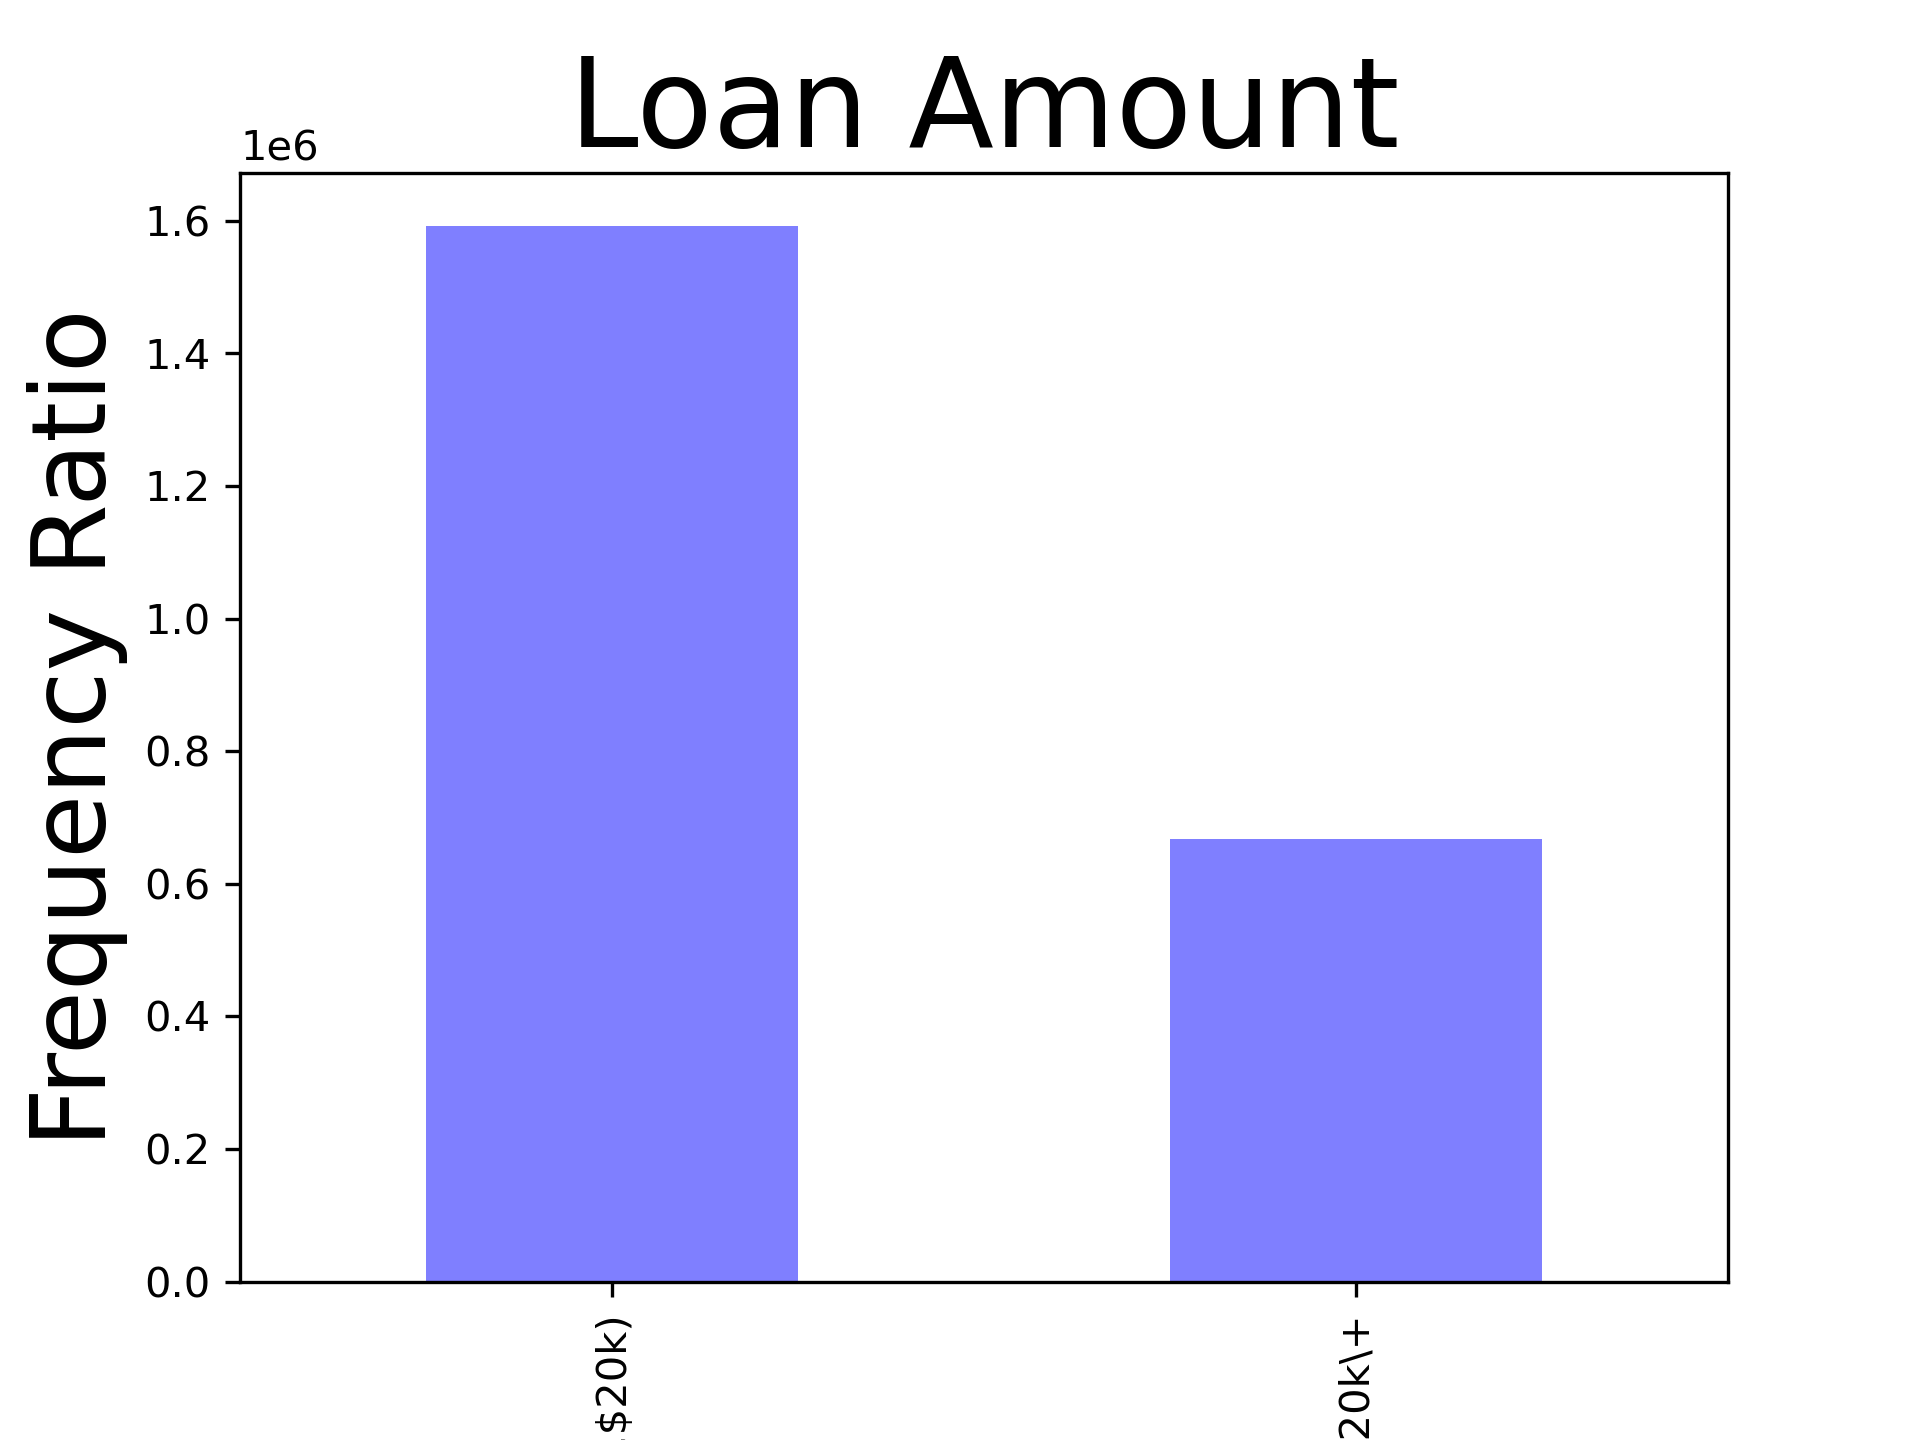
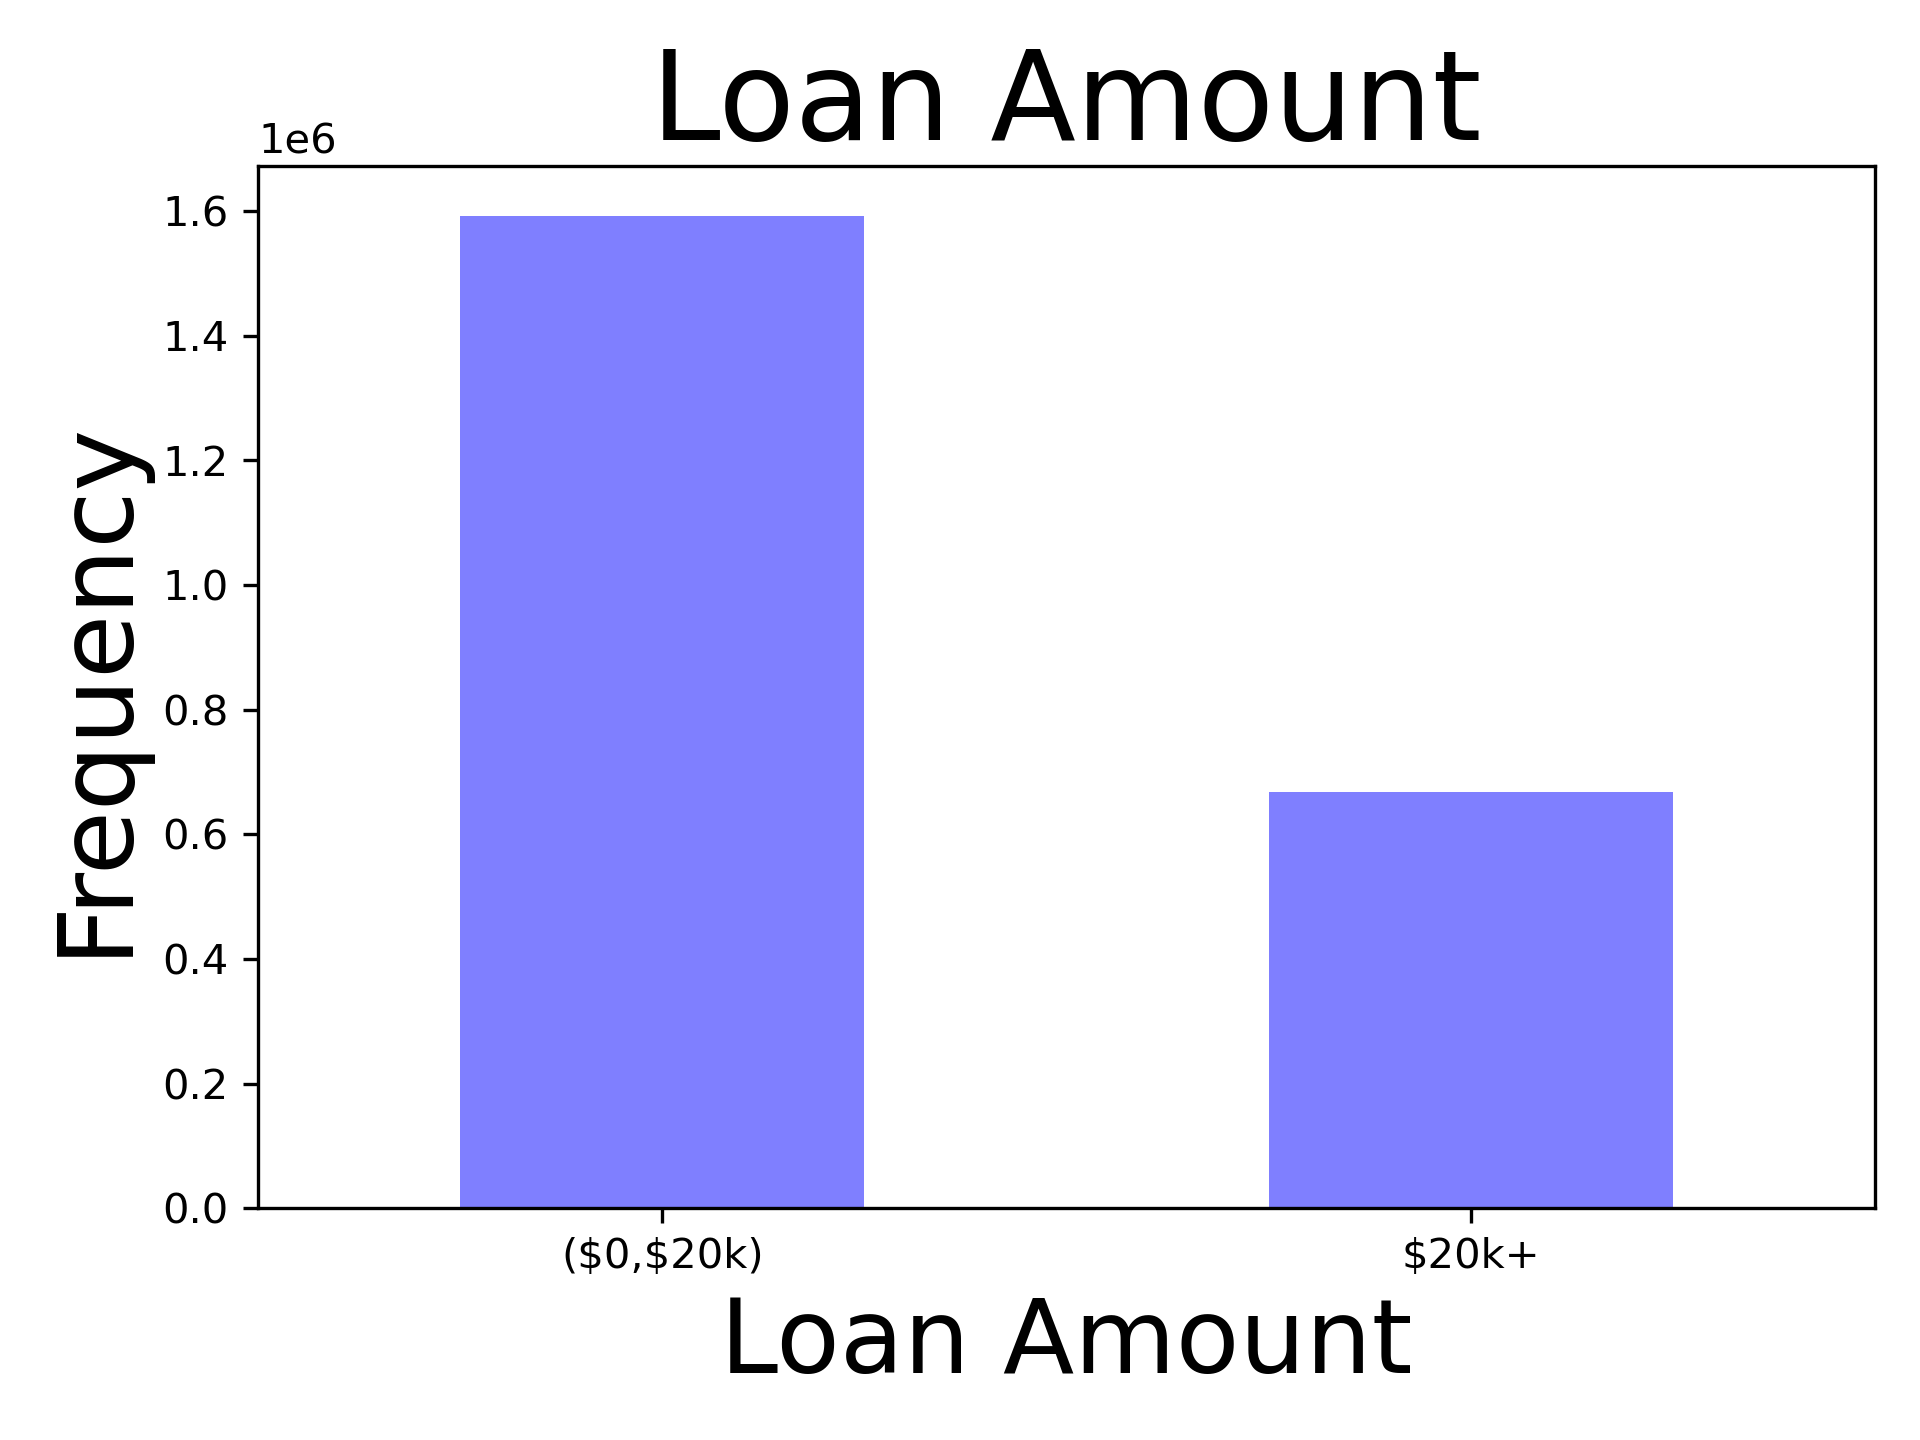
Updated images and proc.py

Changed region(s): [[0.0, 0.0312, 0.9688, 1.0]]

diff --git a/src/proc.py b/src/proc.py
@@ -9,7 +9,11 @@ pd.options.display.max_rows=200
 import os
 import timeit as time
 import matplotlib.pyplot as plt
-import scipy.stats as stats
+
+# In order to correct plotting issue with plt.savefig()
+from matplotlib import rcParams
+rcParams.update({'figure.autolayout': True})
+from scipy import stats
 
 '''
 IO Functions
@@ -175,8 +179,8 @@ def bin_var(Ns, probs):
     return binom_vars
 
 def slow_stack(vector_a, vector_b, a_value, b_value):
-    print(vector_a.unique())
-    print(vector_b.unique())
+    # print(vector_a.unique())
+    # print(vector_b.unique())
     vector_a *= a_value
     vector_b *= b_value
     new_a = vector_a.copy().tolist()
@@ -210,6 +214,12 @@ if __name__ == '__main__':
     skip_sample = 1-rand_sample
     print(f"Using a {rand_sample*100}% random sample of data for EDA.")
     print(f"Skipping a {skip_sample*100}% sample of data for EDA.")
+    
+    '''
+    PLOT PARAMETERS
+    '''
+    pad_inches = 2
+
 
     '''
     FIRST RUN CONDITIONAL
@@ -346,7 +356,7 @@ if __name__ == '__main__':
 
 #%%
     '''
-    Plot Two Group Plots
+    Plot Two Group Plots, just the successes
     '''
     new_vec = slow_stack(np.array(Emp_lty[Emp_lty==1]), 
         np.array(Emp_gtey[Emp_gtey==1]), -.5, .5)
@@ -360,20 +370,20 @@ if __name__ == '__main__':
     fig0=new_vec.value_counts().plot(kind="bar", 
         label="Years Employed", color="blue", alpha=0.5, x=[""])
     plt.xlabel("Years Employed", fontsize=25)
-    plt.ylabel("Frequency Ratio", fontsize=25)
+    plt.ylabel("Frequency", fontsize=25)
     plt.title("Years Employed", fontsize=30)
-    plt.xticks(ticks=[0,1], labels=["[0, 10)","10\+"])
-    plt.savefig("../img/Emp_years_approv.png",dpi=300)
+    plt.xticks(ticks=[0,1], labels=["[0, 10)","10+"], rotation = 0)
+    plt.savefig("../img/Emp_years_approv.png",dpi=300, pad_inches=pad_inches)
     plt.show()
 
 
     figb=new_vec2.value_counts().plot(kind="bar", label="Amount",
         color="blue", alpha=0.5)
     plt.xlabel("Loan Amount",fontsize=25)
-    plt.ylabel("Frequency Ratio",fontsize=25)
+    plt.ylabel("Frequency",fontsize=25)
     plt.title("Loan Amount", fontsize=30)
-    plt.xticks(ticks=[0,1], labels=["(\$0,\$20k)", "\$20k\+"])
-    plt.savefig("../img/Amt_approv.png",dpi=300)
+    plt.xticks(ticks=[0,1], labels=["(\$0,\$20k)", "\$20k+"], rotation = 0)
+    plt.savefig("../img/Amt_approv.png",dpi=300, pad_inches=pad_inches)
     plt.show()
 
 # %%
@@ -383,45 +393,77 @@ if __name__ == '__main__':
     10 or more years of employement history and appicants with 9 or less years of 
     employment history is that there is no difference betweeen their proportion of 
     accepted loans between the groups. My hypothesis is that the group with ten or
-    more years of employment will have more accepted loans than those with less than
-    ten years of employment, on average. 
+    more years of employment will have a statistically different number of 
+    accepted loans than those with less than ten years of employment, on 
+    average. 
     '''
-    bin_means=np,array(bin_means)
-    bin_vars=np.array(bin_vars)
-    counts_list=np,array(counts_list)
+    counts_list=pd.Series(counts_list)
+    probs = pd.Series(probs)
+
+    binom_means=np.array(binom_means)
+    binom_vars=np.array(binom_vars)
+    counts_list=np.array(counts_list)
+
+
+    # Each binomial random variable
+    bnml_emp_lt10 = stats.binom(n=counts_list[0], p=probs[0])
+    bnml_emp_gte10= stats.binom(n=counts_list[1], p=probs[1])
+    bnml_loan_lt20= stats.binom(n=counts_list[2], p=probs[2])
+    bnml_loan_gte20= stats.binom(n=counts_list[3], p=probs[3])
+
+    '''
+    Near as I can tell, I can't do a test of two population proportions 
+    with unequal n in each group with binomial ditributions, which would just be
+    Pa - Pb ~ 0 with summed n. I need to utilize the normal approximation. 
+    To calculate the sample standard error for population proportions, I use 
+    the formula:
+        SE(P) = sqrt(P(1-P)(1/n_a + 1/n_b)) | P = (Pa+Pb) or the total proportion
+    '''
+    def se_two_prop(Ptotal, na, nb):
+        return np.sqrt(Ptotal*(1-Ptotal)*(1/na+1/nb))
+
+    def z_score_prop(best_estimate, Ho, SE):
+        return (best_estimate-Ho)/SE
     
-    rndm = stats.norm()
+    se_emp = se_two_prop(Ptotal = probs[0:1].sum(), na = counts_list[0],
+        nb = counts_list[1])
+    se_loan = se_two_prop(Ptotal = probs[2:3].sum(), na = counts_list[2], 
+        nb = counts_list[3])
+    z_emp = z_score_prop(best_estimate  = probs[0] - probs[1], Ho = 0, 
+        SE = se_emp)
+    z_loan = z_score_prop(best_estimate = probs[2] - probs[3], Ho = 0, 
+        SE = se_loan)
+    p_emp = stats.norm.cdf(x=z_emp, 
+        loc = np.abs(probs[0]*counts_list[0]-probs[1]*counts_list[1]), 
+        scale = se_emp)
+    p_loan = stats.norm.cdf(x=z_loan,
+        loc = np.abs(probs[2]*counts_list[2] - probs[3]*counts_list[3]), 
+        scale = se_loan)
+    stringz = f'''
+    "The z-test statistic for Employment Years is : {z_emp}, with a p-value of 
+    {p_emp}.
+    
+    The z-test statistic for Loan Amount is : {z_loan}, with a p-value of 
+    {p_loan}.
+    '''
+
+    print(stringz)
+
+
     t_score0, p0 = stats.ttest_ind(Emp_lty, Emp_gtey, equal_var=False, 
     nan_policy="omit")
-    print(t_score0, p0)
-    string1=f'''
-    The p-value of 0.0 for the difference in proportions given unknown variance
-    of is smaller than the critical value of 0.01, so we reject the null
-    hypothesis that the proportions of approved loans between lendees with an
-    employement history of 10+ years is the same as those with an employemnt 
-    history of less than 10 years in favor of the hypothesis that the groups are
-    different. Specifically, those with less than 10 years of employment history
-    who applied for loans recieved approval significanlty more often than those
-    with 10 or more years of work history.
-    '''
-    print(string1)
- 
-# %%
-    
+
     t_score, p = stats.ttest_ind(LoanReq_ltk, LoanReq_gtek, equal_var=False, 
         nan_policy="omit")
-    print(t_score, p)
 
-    string = f'''
-    The p-value of 0.0 for the difference in proportions given unknown variance
-    is smaller than the critical value of 0.01, so we reject the null
-    hypothesis that the proportions of approved loans between lendees who 
-    applied for $20k or more of funding, compared to those who applied for less
-    than $20k of funding in favor of the hypothesis that the grouops are 
-    different. Specifically, those who applied for less than $20k in funding 
-    received approval significantly more often.
+    string1=f'''
+    The t-test statistic for Employment Years is {t_score0}, with a p-value of 
+    {p0}. 
+
+    The t-test statistic for Loan Amount is {t_score}, with a p-value of {p}.
     '''
-    print(string)
+    print(string1)
+
 
 #%%
 
